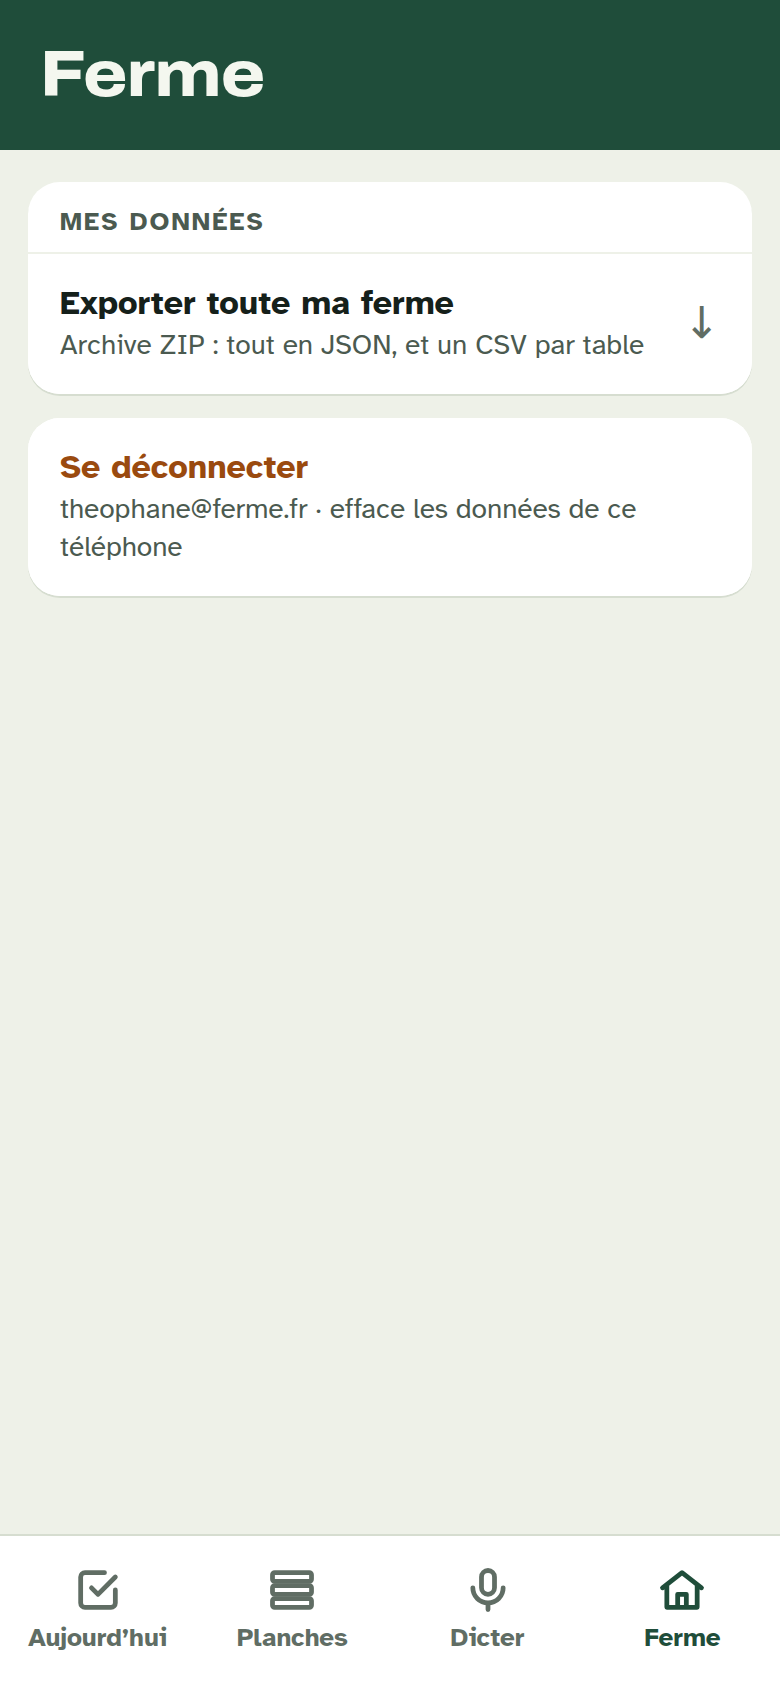
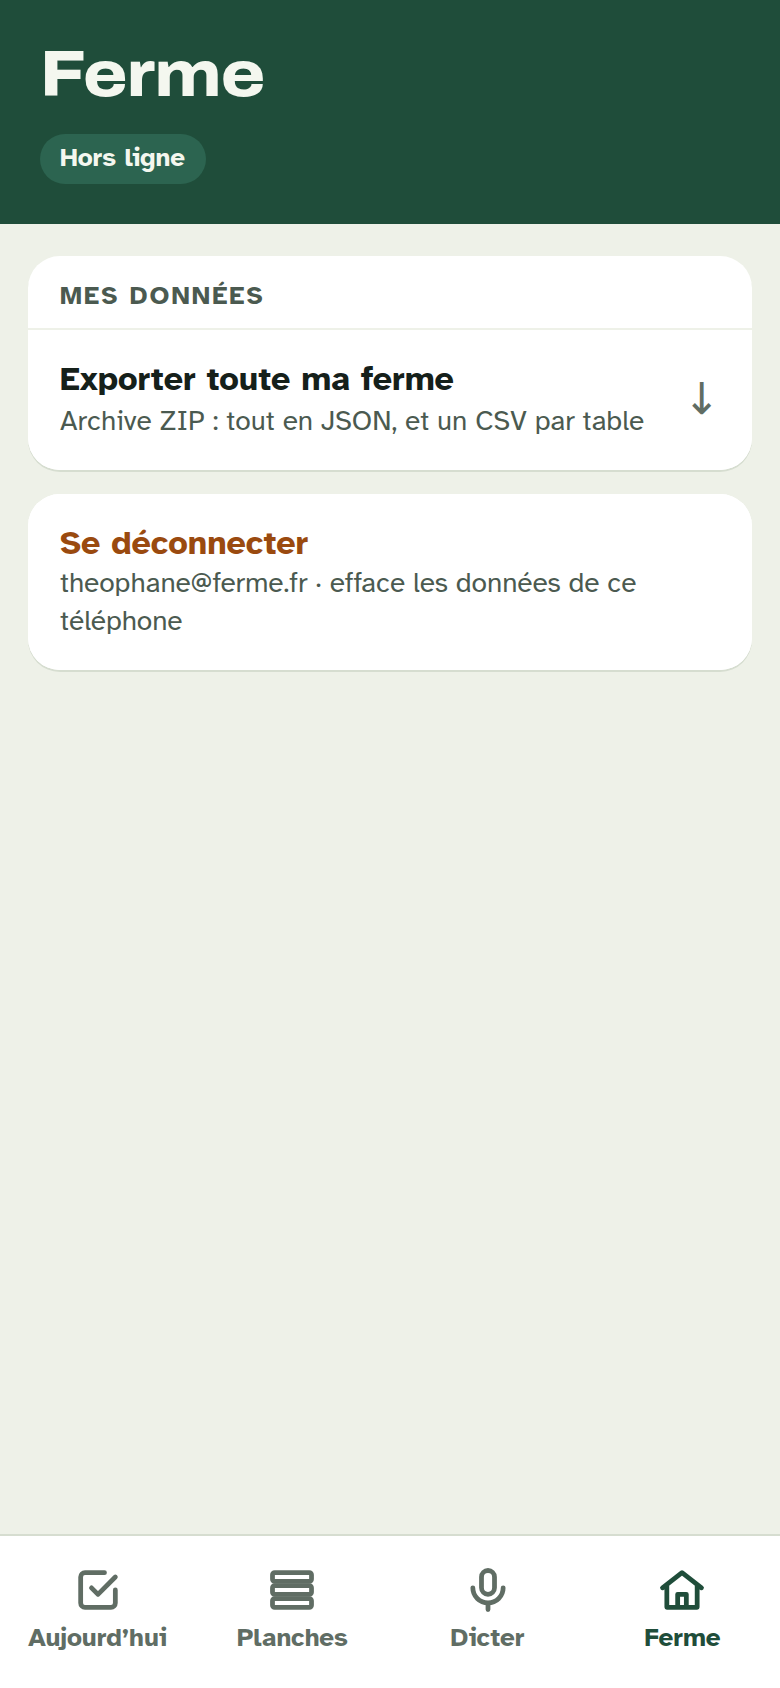
docs(suivi): planches fusionnées (T11), captures du plan, suites de la relecture dans T11b
Claude-Session: https://claude.ai/code/session_01HmBoAGDntFCSyXo7DkeLVF

Changed region(s): [[0.0, 0.0616, 1.0, 0.3697], [0.8923, 0.1848, 0.9231, 0.2464]]

diff --git a/docs/backlog/T11b-plan-suites.md b/docs/backlog/T11b-plan-suites.md
@@ -12,9 +12,12 @@
 - **Double téléchargement à la première visite.** PowerSync et le WASM sont peut-être chargés une fois par la page, puis une fois par le précache. À mesurer, et à éviter si c'est confirmé.
 - **Libellé des barres coupé à gauche.** Quand une barre commence avant la zone visible, son libellé est coupé (« spèce 34… »). Il faut le rendre collant à gauche à l'intérieur de la barre.
 - **Plus de deux sortes de conflit sur une planche.** L'étiquette déborde alors sur la ligne suivante. La rendre propre (par exemple « Chevauche +2 ») et ajouter un test.
-- **Zones supprimées.** `lireStructure` et `lireDebutDePlan` ne filtrent pas `zone.supprime_le`. À trancher avec le modèle de données.
+- **Zones supprimées.** `lireStructure`, `lireDebutDePlan` et la structure réservée pendant le début ne filtrent pas `zone.supprime_le`. À trancher avec le modèle de données.
 - **Écarts avec la maquette Plan.** Il manque les puces de zone, le surtitre « TUNNEL 2 · 6 PLANCHES · 30 M » et la carte d'alerte sous la légende.
 - **Marge des temps.** « Planches » (jusqu'à 313 ms) et la pire image au défilement (50,1 ms) ont dépassé une fois sur sept environ sous charge. Il faut trouver ce qui coûte (profil sur CPU ×4) plutôt que relever les budgets.
+
+- **Focus rendu à la fermeture.** Quand la feuille des conflits ou le détail d'une série se ferme, le focus revient à l'étiquette ou à la barre qui l'a ouverte (ou à la ligne, si la virtualisation l'a retirée du DOM).
+- **Hauteur réservée testée.** Un test vérifie que la hauteur réservée pendant le début égale celle du plan complet (zone sans emplacement, emplacement inactif).
 
 ## Critères d'acceptation
 
